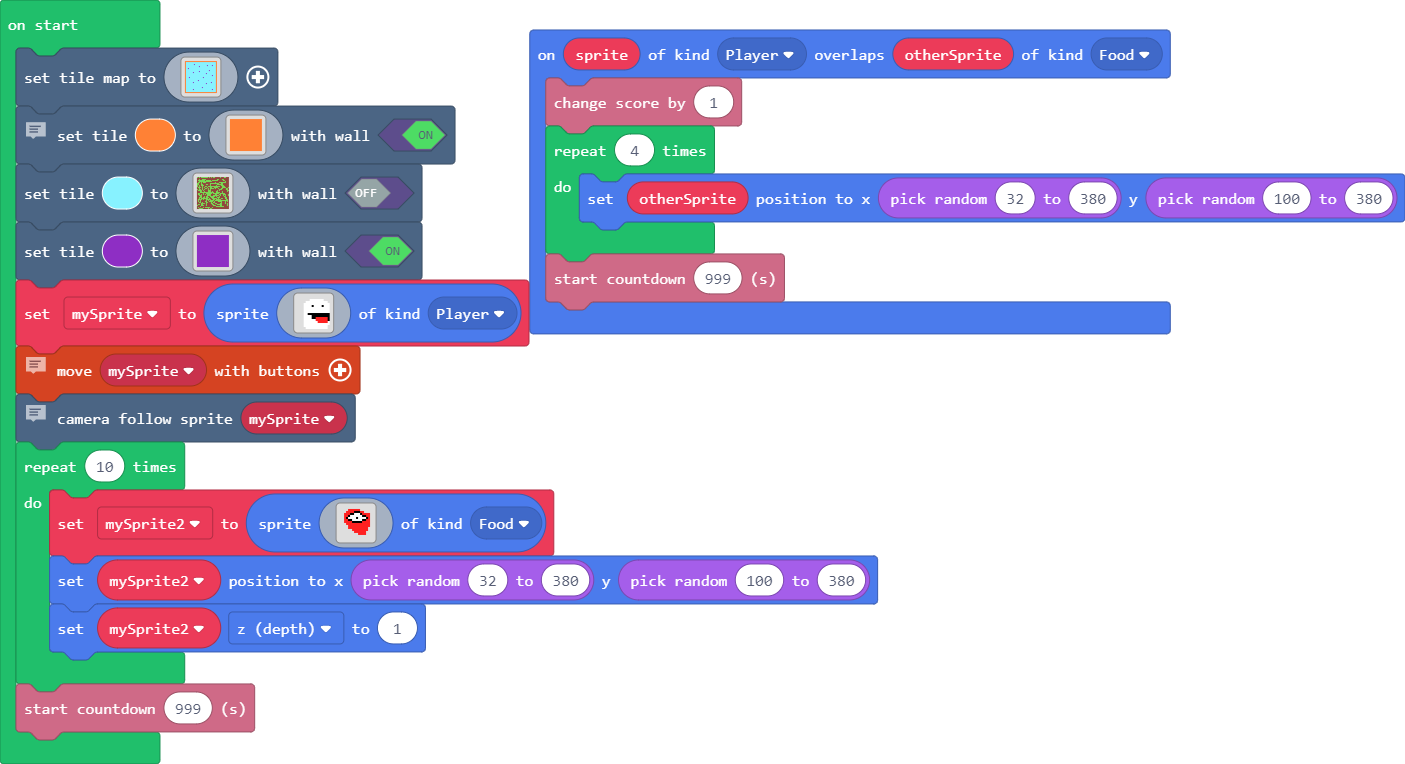
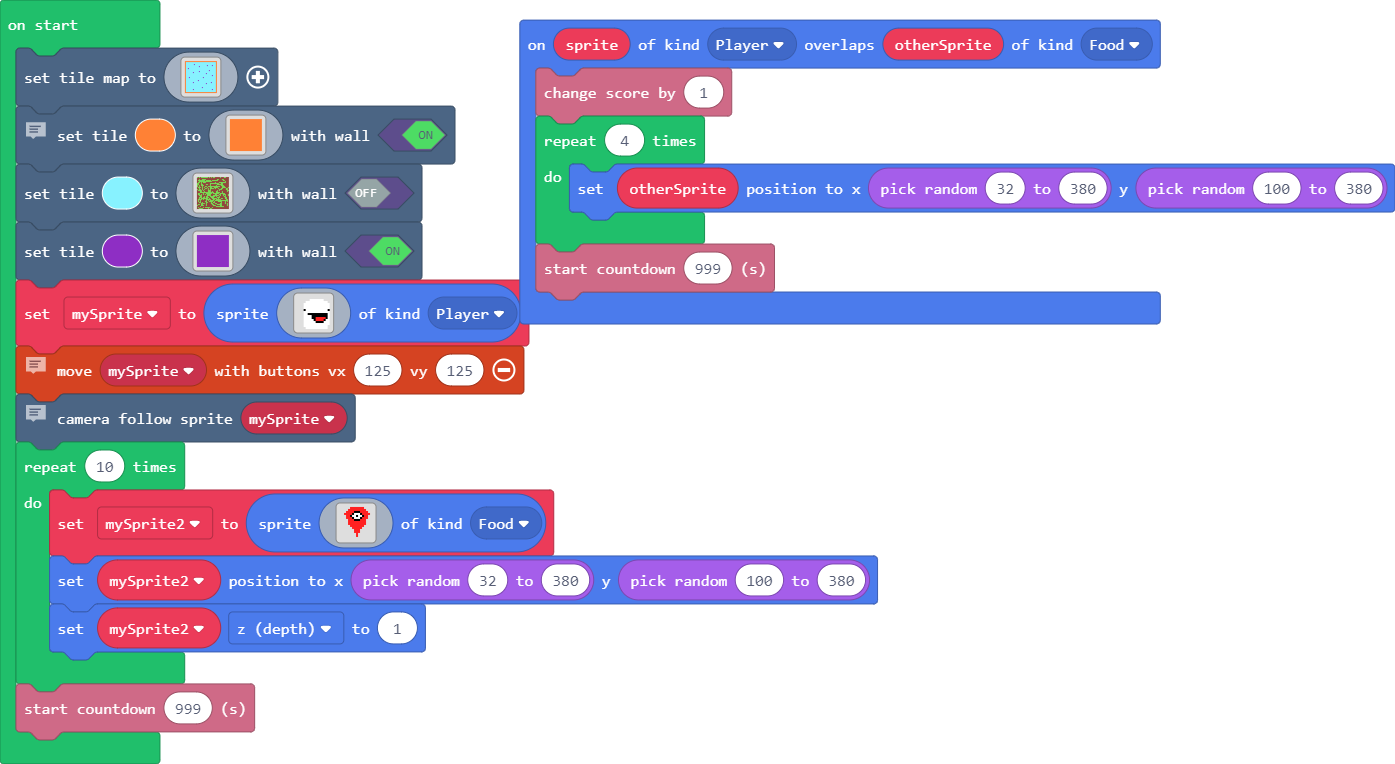
Update main.blocks, main.ts

diff --git a/main.ts b/main.ts
@@ -149,40 +149,40 @@ let mySprite = sprites.create(img`
 . . . . . . 1 1 1 1 1 1 1 . . . 
 . . . . 1 1 1 1 1 1 1 1 1 1 1 . 
 . . . 1 1 1 1 1 1 1 1 1 1 1 1 1 
-. . . 1 1 1 1 f 1 1 1 1 f 1 1 1 
 . . . 1 1 1 1 1 1 1 1 1 1 1 1 1 
 . . . 1 1 1 1 1 1 1 1 1 1 1 1 1 
+. . . f 1 1 1 1 1 1 1 1 1 1 1 f 
 . . . 1 1 1 1 1 1 1 1 1 1 1 1 1 
-. . . 1 1 f f f f f f f f f f f 
-. . . 1 1 1 1 f f f f f f f f f 
-. . . 1 1 1 1 f f 2 2 2 2 2 2 f 
-. . . 1 1 1 1 1 1 2 2 2 2 2 2 f 
-. . . 1 1 1 1 1 1 1 2 2 2 2 2 1 
+. . . 1 1 f f f f f f f f f f 1 
+. . . 1 1 1 1 f f f f f f f f 1 
+. . . 1 1 1 1 f f 2 2 2 2 2 f 1 
+. . . 1 1 1 1 1 f 2 2 2 2 f 1 1 
+. . . 1 1 1 1 1 1 f f f f 1 1 1 
 . . . 1 1 1 1 1 1 1 1 1 1 1 1 1 
 . . . 1 1 1 1 1 1 1 1 1 1 1 1 . 
 . . . . 1 1 1 1 1 1 1 1 1 1 1 . 
 `, SpriteKind.Player)
 // controls sprite
-controller.moveSprite(mySprite)
+controller.moveSprite(mySprite, 125, 125)
 // makes the camera follow sprite through out sprite
 scene.cameraFollowSprite(mySprite)
 for (let index = 0; index < 10; index++) {
     mySprite2 = sprites.create(img`
-. . . . . . . . . . . . . . . . 
-. . . . 2 2 2 2 2 2 . . . . . . 
-. . . 2 2 2 2 f f f 2 2 . . . . 
-. . 2 2 2 f f 1 1 1 f 2 2 2 2 . 
-. . 2 2 f 1 1 1 1 1 1 f f 2 2 . 
-. . 2 f 1 1 1 1 f 1 1 1 1 f 2 . 
-. . 2 2 f f 1 1 1 1 1 f f 2 2 . 
-. . 2 2 2 2 f f f f f 2 2 2 2 . 
-. . . 2 2 2 2 2 2 2 2 2 2 2 2 . 
-. . . . 2 2 2 2 2 2 2 2 2 2 2 . 
-. . . . 2 2 2 2 2 2 2 2 2 2 . . 
-. . . . . . 2 2 2 2 2 2 2 2 . . 
-. . . . . . . 2 2 2 2 2 2 . . . 
-. . . . . . . . . 2 2 2 2 . . . 
-. . . . . . . . . . . . . . . . 
+. . . . . 2 2 2 2 2 2 2 . . . . 
+. . . . 2 2 2 2 2 2 2 2 2 . . . 
+. . . 2 2 2 2 f f f 2 2 2 2 . . 
+. . 2 2 2 2 f 1 1 1 f 2 2 2 2 . 
+. . . 2 2 f 1 1 f 1 1 f 2 2 . . 
+. . . 2 2 2 f 1 1 1 f 2 2 2 . . 
+. . . . 2 2 2 f f f 2 2 2 . . . 
+. . . . 2 2 2 2 2 2 2 2 2 . . . 
+. . . . 2 2 2 2 2 2 2 2 2 . . . 
+. . . . . 2 2 2 2 2 2 2 . . . . 
+. . . . . . 2 2 2 2 2 . . . . . 
+. . . . . . . 2 2 2 . . . . . . 
+. . . . . . . 2 2 2 . . . . . . 
+. . . . . . . . 2 . . . . . . . 
+. . . . . . . . 2 . . . . . . . 
 . . . . . . . . . . . . . . . . 
 `, SpriteKind.Food)
     mySprite2.setPosition(Math.randomRange(32, 380), Math.randomRange(100, 380))
